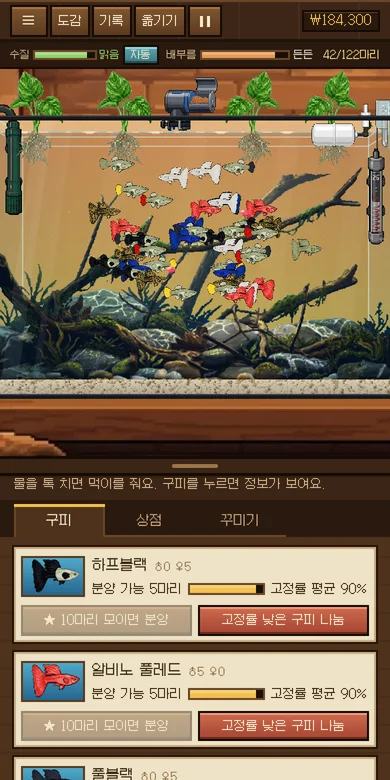
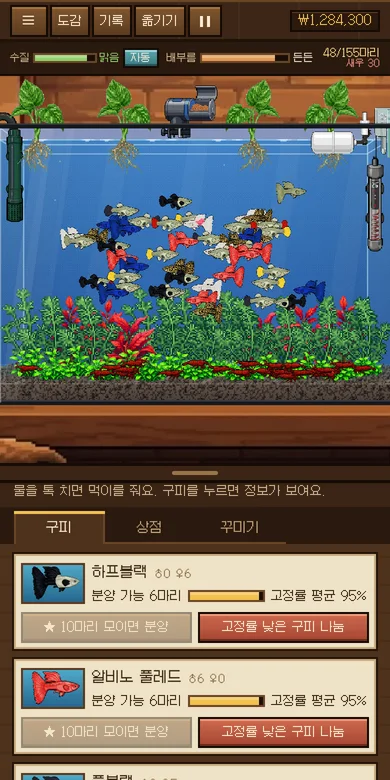
Update 구피천 브리더 screenshots
Claude-Session: https://claude.ai/code/session_01Sid2wyzMnewEXnB4oBf1P5

diff --git a/index.html b/index.html
@@ -204,7 +204,7 @@ footer a{color:var(--mutednow);text-underline-offset:3px}
           </div>
         </article>
         <article class="work">
-          <div class="shots"><figure><img data-par="0.03" src="guppy-breeder/shot1.webp" alt="구피천 브리더 타이틀 화면" loading="lazy"><figcaption>막구피 한 쌍에서 시작</figcaption></figure><figure><img data-par="0.06" src="guppy-breeder/shot2.webp" alt="유목과 수초로 꾸민 어항에 여러 품종의 구피가 헤엄치는 화면" loading="lazy"><figcaption>품종 고정과 분양</figcaption></figure><figure><img data-par="0.04" src="guppy-breeder/shot3.webp" alt="브리더 등급 트로피와 뱃지 기록 화면" loading="lazy"><figcaption>등급과 뱃지 모으기</figcaption></figure></div>
+          <div class="shots"><figure><img data-par="0.03" src="guppy-breeder/shot1.webp" alt="구피천 브리더 타이틀 화면" loading="lazy"><figcaption>막구피 한 쌍에서 시작</figcaption></figure><figure><img data-par="0.06" src="guppy-breeder/shot2.webp" alt="수초를 빽빽하게 심은 어항에 여러 품종의 구피가 헤엄치는 화면" loading="lazy"><figcaption>나만의 수초 어항</figcaption></figure><figure><img data-par="0.04" src="guppy-breeder/shot3.webp" alt="구피천의 전설 트로피와 금색 뱃지를 모은 기록 화면" loading="lazy"><figcaption>금 뱃지와 전설 등급</figcaption></figure></div>
           <div class="txt">
             <div class="apphead"><img class="appicon" src="guppy-breeder/icon-card.webp" alt="구피천 브리더 아이콘" width="64" height="64"><div><div class="eyebrow">Mobile Game</div><h3>구피천 브리더</h3></div></div>
             <p>동네 구피천에서 데려온 막구피 한 쌍으로 시작하는 픽셀아트 품종 고정 게임. 같은 품종끼리 대를 이어 혈통을 굳히고, 정해진 짝을 맞춰 희귀 품종을 만들어요.</p>
